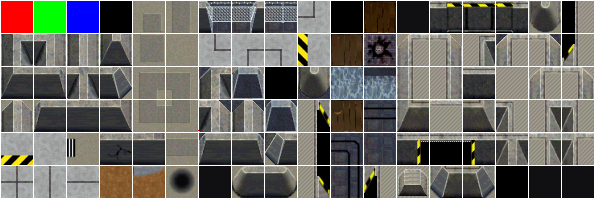
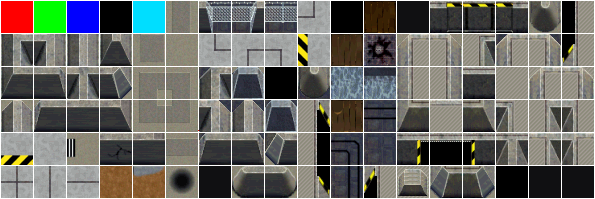
added ice

Changed region(s): [[0.2118, 0.0, 0.3025, 0.1809]]

diff --git a/player.cpp b/player.cpp
@@ -21,6 +21,7 @@ namespace Tmpl8
     int spawn_px = 400;
     int spawn_py = 10;
     float horizontal_speed = 0.0f;
+    float friction = 0.05f;
 
     // Player functions
     TileType Player::CheckCollisionBottom(int x, int y)
@@ -71,16 +72,22 @@ namespace Tmpl8
             horizontal_speed += ACCELERATION;
             if (horizontal_speed > MAX_HORIZONTAL_SPEED) horizontal_speed = MAX_HORIZONTAL_SPEED;
         }
+        bool upPressedLastFrame = false;
+        bool isUpDown = GetAsyncKeyState(VK_UP) & 0x8000;
+        if (isUpDown && !upPressedLastFrame)
+        {
+            // JUMP LOGIC TODO
+        }
         else // When there is no movement left, the player slides depending on the friction.
         {
             if (horizontal_speed > 0)
             {
-                horizontal_speed -= FRICTION;
+                horizontal_speed -= friction;
                 if (horizontal_speed < 0) horizontal_speed = 0;
             }
             else if (horizontal_speed < 0)
             {
-                horizontal_speed += FRICTION;
+                horizontal_speed += friction;
                 if (horizontal_speed > 0) horizontal_speed = 0;
             }
         }
@@ -91,6 +98,8 @@ namespace Tmpl8
         // Vertical movement (gravity)
         vertical_speed = gravity;
         y += vertical_speed;
+
+       //  offsetPlayerPos(OFFSET_X, OFFSET_Y);
 
         // Clamp coordinates to make the player not go outside of the screen boundaries.
         if (x < 0) x = 0;
@@ -136,6 +145,14 @@ namespace Tmpl8
             py = spawn_py;
             return;
         case TileType::Collision:
+            friction = 0.05f;
+            vertical_speed = 0;
+            py = (ny > py) ? py : ny;
+            break;
+        case TileType::Ice:
+            friction = 0.0f;
+            vertical_speed = 0;
+            py = (ny > py) ? py : ny;
             break;
         }
 
@@ -155,13 +172,35 @@ namespace Tmpl8
             py = spawn_py;
             break;
         case TileType::Collision:
+            friction = 0.05f;
+            vertical_speed = 0;
+            py = (ny > py) ? py : ny;
+            break;
+        case TileType::Ice:
+            friction = 0.0f;
             vertical_speed = 0;
             py = (ny > py) ? py : ny;
             break;
         }
     }
 
-    int Player::getPlayerPos()                  { return px, py; }
-    void Player::setPlayerPos(int& x, int& y)   { px = x, py = y; }
+    void Player::offsetPlayerPos(int offset_x, int offset_y)
+    {
+        px += offset_x;
+        py += offset_y;
+    }
+
+    void Player::getPlayerPos(int& x, int& y)
+    {
+        x = px;
+        y = py;
+    }
+
+    void Player::setPlayerPos(int x, int y)
+    {
+        px = x;
+        py = y;
+    }
+
     
 };

diff --git a/player.h b/player.h
@@ -16,13 +16,13 @@ namespace Tmpl8
     extern float horizontal_speed;
     extern int spawn_px ;
     extern int spawn_py;
+    extern float friction;                      // How much the player sticks to the ground
 
     // Constants
     const int SCREEN_WIDTH = 800;
     const int SCREEN_HEIGHT = 512;
     const float ACCELERATION = 0.3f;            // How long it will take the player to reach the max horizontal speed.
-    const float MAX_HORIZONTAL_SPEED = 3.0f;    // The max horizontal speed.
-    const float FRICTION = 0.05f;               // How much the player sticks to the ground
+    const float MAX_HORIZONTAL_SPEED = 3.0f;    // The max horizontal speed.            
 
     // Player class
     class Player {
@@ -31,8 +31,9 @@ namespace Tmpl8
         TileType Player::CheckCollisionSides(int x, int y);
         void movePlayer(int& x, int& y);
         void manageCollisions(int& nx, int& ny, Surface* screen);
-        int getPlayerPos();
-        void setPlayerPos(int& x, int& y);
+        void getPlayerPos(int& x, int& y);
+        void setPlayerPos(int x, int y);
+        void offsetPlayerPos(int player_offset_x, int player_offset_y);
         void setMapDefaultPos();
     };
 };

diff --git a/tilemap.h b/tilemap.h
@@ -19,7 +19,7 @@ namespace Tmpl8
         "ca ca ca ca ca ca ca ca da da da ca ca ca da da da ca ca ca ca ca ca ca ca",
         "ca ca da da da da da da da da da da da da da da da da da da da da da ca ca",
         "ca ca da da da da da da da da da da da da da da da da da da da da da ca ca",
-        "ca ca da da da ca ca ca ca ca ca ca ca ca ca ca ca ca ca ca da da da ca ca",
+        "ca ca da da da ea ea ea ea ea ea ea ea ea ea ea ea ea ea ea da da da ca ca",
         "ca ca da da da ca ca ca ca ca ca ca ca ca ca ca ca ca ca ca da da da ca ca",
         "ca ca da da da da da da da da da da da da da da da da da da da da da ca ca",
         "ca ca da da da da da da da da da da da da da da da da da da da da da ca ca",

diff --git a/tilemap.cpp b/tilemap.cpp
@@ -2,6 +2,7 @@
 #include "surface.h"
 #include "tilemap.h"
 #include "player.h"
+#include "game.h"
 
 #include <stdio.h>
 #include <iostream>
@@ -55,10 +56,11 @@ namespace Tmpl8
 
         TileType tile_type = None;
 
-        if      (a == 'd' && b == 'a')  tile_type = None;
+        if (a == 'd' && b == 'a')       tile_type = None;
         else if (a == 'a' && b == 'a')  tile_type = Damage;
         else if (a == 'b' && b == 'a')  tile_type = End;
         else if (a == 'c' && b == 'a')  tile_type = Collision;
+        else if (a == 'e' && b == 'a')  tile_type = Ice;
 
         Tile tile = Tile
         {

diff --git a/game.cpp b/game.cpp
@@ -4,6 +4,9 @@
 
 /*
 * - Fix git missing sdl2.lib
+* - Implement vertical camera
+* - Better physics
+* - Jump button
 */
 
 #define WIN32_LEAN_AND_MEAN
@@ -31,7 +34,7 @@ namespace Tmpl8
     Debug debug;
     TileMap map;
 
-    // + MAIN GAME LOGIC
+    // + MAIN GAME LOGIC 
     void Game::Tick(float deltaTime)
     {
         // * Clear the screen black every tick and draw the map.

diff --git a/game.h b/game.h
@@ -3,7 +3,12 @@
 
 namespace Tmpl8 
 {
+	// External variables
 	extern TileMap map;
+	
+	// Constants
+	const int OFFSET_X = 0;
+	const int OFFSET_Y = -10;
 
 class Surface;
 class Game

diff --git a/tile.h b/tile.h
@@ -13,7 +13,8 @@ namespace Tmpl8
         None,
         Damage,
         End,
-        Collision
+        Collision,
+        Ice
     };
 
     // Tile struct
